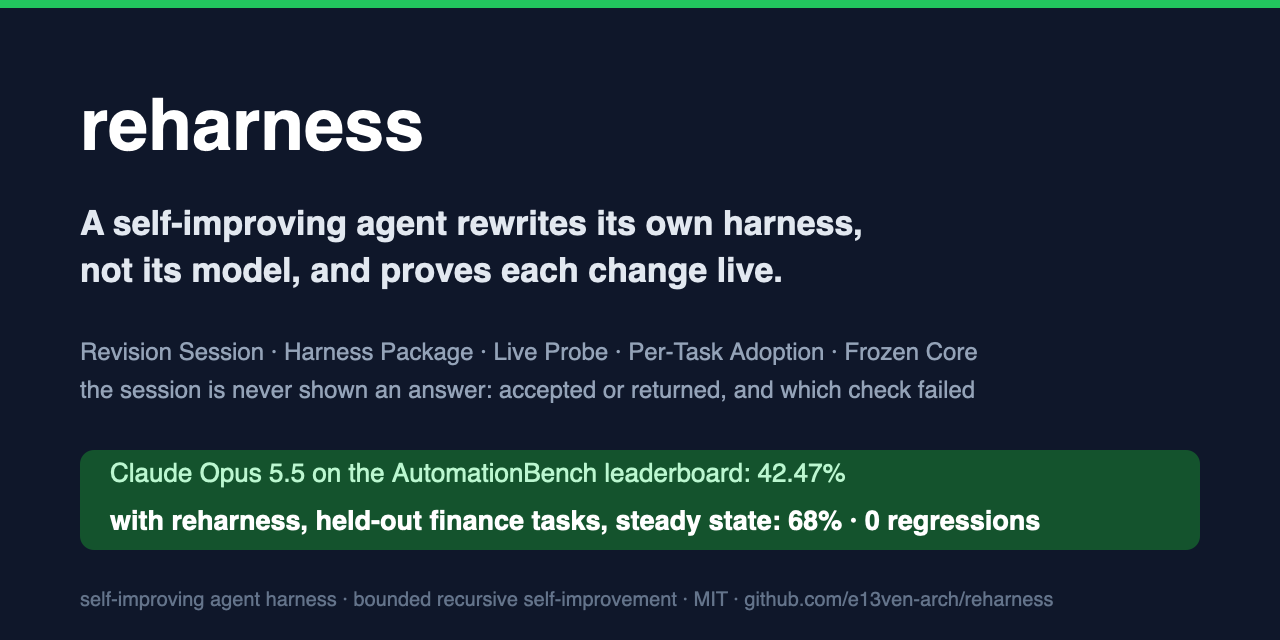
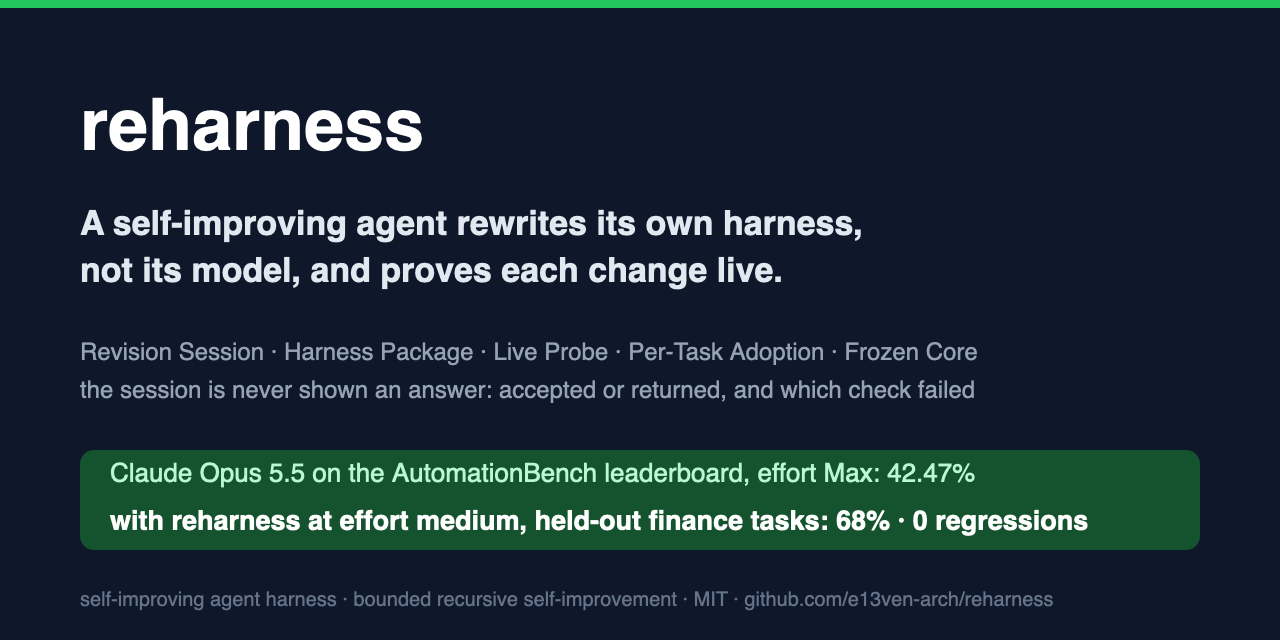
Results framed with the effort levels (the user: we run at medium, the comparison can be bolder): the leaderboard's 42.47% is at the model's highest effort (Max), reharness's 68% at effort medium — named in the landing page's stats, results headline and table, in both READMEs' lead sentences and in 

Changed region(s): [[0.2188, 0.7812, 0.8438, 0.8438], [0.5938, 0.7188, 0.7812, 0.75]]

diff --git a/docs/index.html b/docs/index.html
@@ -147,7 +147,7 @@ footer a{color:var(--muted);text-decoration:none}
 
 <nav><div class="wrap">
   <a class="brand" href="#"><i></i>reharness</a>
-  <ul><li><a href="#loop">The loop</a></li><li><a href="#architecture">Architecture</a></li><li><a href="#tiers">Feedback tiers</a></li><li><a href="#results">Results</a></li><li><a href="#faq">FAQ</a></li></ul>
+  <ul><li><a href="#loop">The loop</a></li><li><a href="#architecture">Architecture</a></li><li><a href="#learned">What it built</a></li><li><a href="#tiers">Feedback tiers</a></li><li><a href="#results">Results</a></li><li><a href="#faq">FAQ</a></li></ul>
   <a class="btn" href="https://github.com/e13ven-arch/reharness">GitHub ↗</a>
 </div></nav>
 
@@ -157,8 +157,8 @@ footer a{color:var(--muted);text-decoration:none}
   <p class="lede">When a request comes back returned, a <b>Revision Session</b> reads the agent's own run, changes its <b>Harness Package</b> — tools, hooks, skills, prompts — and a <b>Live Probe</b> runs the same request for real. Only an accepted probe is adopted, and only for that task. The session is never shown an answer.</p>
   <div class="cta"><a class="btn primary" href="https://github.com/e13ven-arch/reharness">View on GitHub</a><a class="btn" href="#loop">See the loop</a><a class="btn" href="https://github.com/e13ven-arch/reharness/blob/main/README.zh-CN.md">中文</a></div>
   <div class="stats">
-    <div class="stat"><div class="n">42.47%</div><div class="l">Claude Opus 5.5 on the AutomationBench leaderboard</div></div>
-    <div class="stat"><div class="n g">68%</div><div class="l">with reharness, held-out finance tasks, steady state</div></div>
+    <div class="stat"><div class="n">42.47%</div><div class="l">Claude Opus 5.5 on the AutomationBench leaderboard, at its highest effort (Max)</div></div>
+    <div class="stat"><div class="n g">68%</div><div class="l">with reharness, held-out finance tasks, steady state — at effort <b>medium</b></div></div>
     <div class="stat"><div class="n g">+13 pts</div><div class="l">largest sealed gain over the same model without it</div></div>
     <div class="stat"><div class="n g">0</div><div class="l">passing tasks lost to learning, across every final</div></div>
   </div>
@@ -198,6 +198,18 @@ footer a{color:var(--muted);text-decoration:none}
   <div class="cap">Figure 2 · the worked example beneath the flow is a quarterly tax estimate drawn from one real trace: the session built a source-coverage guard, a routing guard and an estimate tool; the third probe was accepted and held.</div>
 </div></section>
 
+<section id="learned"><div class="wrap">
+  <div class="kicker">What a session built, unprompted</div>
+  <h2>Habits, written as code. Not one answer.</h2>
+  <p class="sub">On a quarterly tax estimate the agent derived the figure in its head, at a rate it never saw: the change had been posted in a chat channel it never opened. Returned. One Revision Session, told only that and which check failed, built three components. The third probe was accepted and held on every later encounter.</p>
+  <div class="cols" style="margin-top:0">
+    <div class="col w"><div class="k">hook · before the first write</div><h3>Source Coverage Guard</h3><ul><li>Holds the first write until every unread source is opened</li><li>States its reasons; lets the same call through when resent</li><li>Rebuilt independently by other sessions, with none of the words in the prompt</li></ul></div>
+    <div class="col w"><div class="k">hook · before a tool call</div><h3>Routing Guard</h3><ul><li>A derived figure must go through a tool, not the model's head</li><li>Blocks the send once, names the value it wants computed</li></ul></div>
+    <div class="col w"><div class="k">tool · written by the session</div><h3>Estimate Tool</h3><ul><li>Annualises the year to date, blends the rate across the quarter</li><li>Every calculation tool in an adopted package was written by a session; the seed has none</li></ul></div>
+  </div>
+  <div class="cap" style="margin-top:18px">Three probes, three verdicts: by hand → returned; through the tool, un-annualised → returned; through the tool, annualised → accepted. The host adopted the third as it ran. At effort max the same task held on every later encounter; three medium runs had never reached it.</div>
+</div></section>
+
 <section id="tiers"><div class="wrap">
   <div class="kicker">Feedback tiers</div>
   <h2>What the session may be told is a field of the protocol.</h2>
@@ -212,17 +224,17 @@ footer a{color:var(--muted);text-decoration:none}
 
 <section id="results"><div class="wrap">
   <div class="kicker">Results</div>
-  <h2>Sealed before the first test attempt.</h2>
-  <p class="sub">The model as it ships, on the official leaderboard; the same model running the harness reharness built from its own runs, on the benchmark's held-out tasks.</p>
+  <h2>42.47% at Max on the leaderboard. 68% with reharness, at medium.</h2>
+  <p class="sub">The model as it ships, at its highest effort, on the official leaderboard; the same model at a cheaper effort running the harness reharness built from its own runs, on the benchmark's held-out tasks. Every reharness number was sealed before the first test attempt.</p>
   <div class="tablewrap"><table>
     <tr><th>Setting</th><th>Pass rate</th><th>Cost</th></tr>
-    <tr><td>Claude Opus 5.5 on the AutomationBench leaderboard</td><td class="num">42.47%</td><td>—</td></tr>
-    <tr><td>Best finance score on the AutomationBench leaderboard</td><td class="num">50.00%</td><td>—</td></tr>
-    <tr class="hl"><td><b>Claude Opus 5.5 with reharness</b> — finance, requests that repeat, steady state</td><td class="num">68% <span class="iv">+4.0 over the first pass [−4.0, +12.0] · no passing task lost</span></td><td>$184</td></tr>
+    <tr><td>Claude Opus 5.5 on the AutomationBench leaderboard, effort Max</td><td class="num">42.47%</td><td>—</td></tr>
+    <tr><td>Best finance score on the AutomationBench leaderboard, any model, highest effort</td><td class="num">50.00%</td><td>—</td></tr>
+    <tr class="hl"><td><b>Claude Opus 5.5 with reharness</b> — finance, requests that repeat, steady state, effort medium</td><td class="num">68% <span class="iv">+4.0 over the first pass [−4.0, +12.0] · no passing task lost</span></td><td>$184</td></tr>
     <tr><td>Claude Opus 5.5 with reharness — finance, one evolved package for the domain</td><td class="num">62.7% <span class="iv">+8.0 [−4.0, +22.7] · each attempt 22% cheaper</span></td><td>$210</td></tr>
     <tr><td>Claude Opus 5.5 with reharness — Marketing, one evolved package for the domain</td><td class="num">54.3% <span class="iv">+13.0 [+2.2, +26.1]</span></td><td>$153</td></tr>
   </table></div>
-  <div class="note">The leaderboard (v1.0.6) and these runs score different task sets at different settings; the benchmark promises only directional agreement between them. Costs are for the whole activity, in API-equivalent dollars. Every run, with its reading, is in <a href="https://github.com/e13ven-arch/reharness/blob/main/docs/RESULTS.md">docs/RESULTS.md</a>.</div>
+  <div class="note">The leaderboard (v1.0.6) runs each model at its highest effort on a private set; the reharness rows are at effort medium on the public set's held-out split. The benchmark promises directional agreement between its two sets. Costs are for the whole activity, in API-equivalent dollars. Every run, with its reading, is in <a href="https://github.com/e13ven-arch/reharness/blob/main/docs/RESULTS.md">docs/RESULTS.md</a>.</div>
 </div></section>
 
 <section id="faq"><div class="wrap">

diff --git a/README.md b/README.md
@@ -14,7 +14,7 @@
 
 reharness is a self-improving agent harness: bounded recursive self-improvement in which the agent's own model revises the harness the agent runs in, never the model. A business agent runs requests that repeat. When a request comes back returned, a **Revision Session** reads the agent's own run of it, changes the agent's **Harness Package** — its tools, hooks, skills, prompts — and proves the change with a **Live Probe**: the candidate runs the same request for real. Only a probe that comes back accepted is adopted, and only for that request (**Per-Task Adoption**). No person picks the change, no model judges it, and the session is never shown an answer: at most *accepted or returned* per attempt, and *which check failed*. Everything the session cannot touch is a **Frozen Core** — the scorer, what the session may be told, the package's contract, the bounds — and package code runs in an isolated worker. What the agent learns from its own runs is harness engineering — a guard, a tool, a prompt — not an answer.
 
-Built and measured on [AutomationBench](https://github.com/zapier/AutomationBench) (47 simulated SaaS tools, scored on the world state the agent leaves behind) with Claude Opus 5.5 as both the agent and the session, on a subscription budget. As of October 2026, Claude Opus 5.5 scores 42.47% on the AutomationBench leaderboard; with reharness, on the benchmark's held-out finance tasks, it scores 68% at steady state, with no passing task lost; on train tasks a session learned, with no hint in its prompt, to open every unread source before writing and to derive figures by code.
+Built and measured on [AutomationBench](https://github.com/zapier/AutomationBench) (47 simulated SaaS tools, scored on the world state the agent leaves behind) with Claude Opus 5.5 as both the agent and the session, on a subscription budget. As of October 2026, Claude Opus 5.5 scores 42.47% on the AutomationBench leaderboard at its highest effort; with reharness, at effort medium, it scores 68% at steady state on the benchmark's held-out finance tasks, with no passing task lost; on train tasks a session learned, with no hint in its prompt, to open every unread source before writing and to derive figures by code.
 
 <p align="center"><img src="docs/assets/architecture.svg" alt="Components and architecture: the Frozen Core K (Package Contract, Host-Side Scorer, Feedback Tier, Bounds) over the Harness Package W as W₀ and one W_t per task, the Isolated Worker as a boundary around the Host Transcript E, the Revision Session R with its admissibility gate and Live Probe, and Per-Task Adoption applied by the host" width="100%"></p>
 
@@ -88,7 +88,7 @@ Tasks run in parallel, a task's encounters in order, and every encounter is on r
 
 ## Results
 
-**Claude Opus 5.5 scores 42.47% on the AutomationBench leaderboard. With reharness, on the benchmark's held-out finance tasks, it scores 68% at steady state.** Every reharness number is a sealed final, the protocol committed before the first test attempt; across the finals the harness the loop built gained up to +13 points over the same model without it, and not one passing task was lost.
+**Claude Opus 5.5 scores 42.47% on the AutomationBench leaderboard, at its highest effort. With reharness, at effort medium, it scores 68% at steady state on the benchmark's held-out finance tasks.** Every reharness number is a sealed final, the protocol committed before the first test attempt; across the finals the harness the loop built gained up to +13 points over the same model without it, and not one passing task was lost.
 
 | | Pass rate | Cost |
 |---|---|---|
